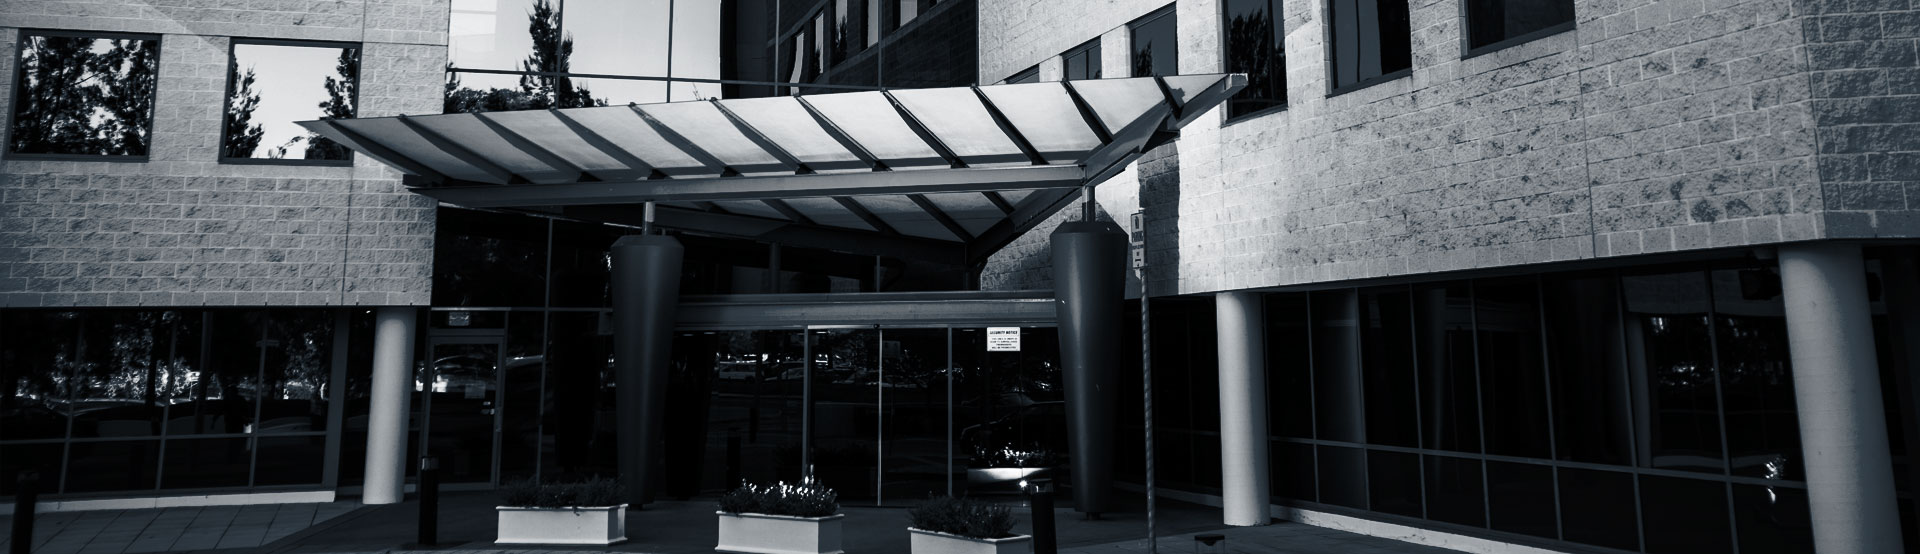
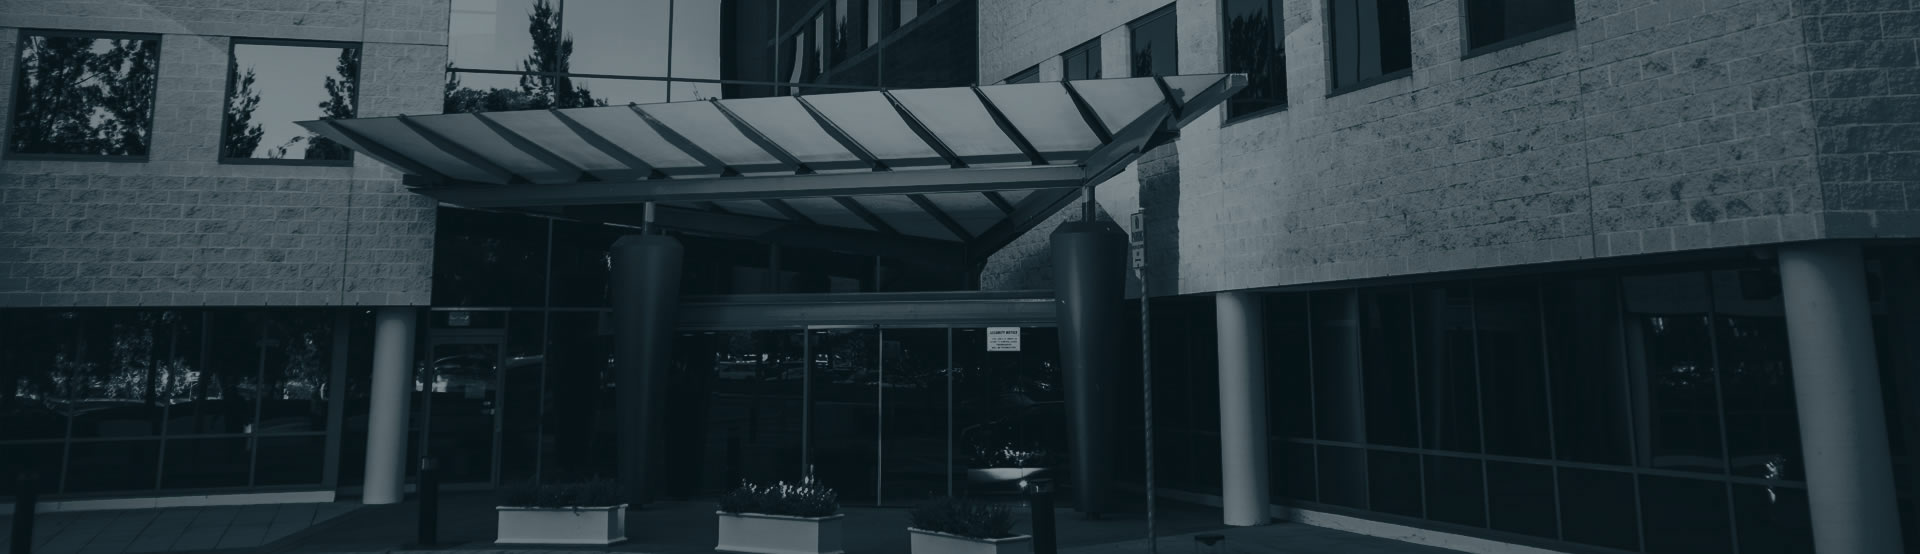
replace heading images - not enough contrast for white text

diff --git a/ipaustralia/css/landing-page.css b/ipaustralia/css/landing-page.css
@@ -200,8 +200,8 @@
 
   /* start trade marks landing block */
 .node-type-landing-page #block-bean-trade-marks-landing-block-0 {
-    background: #1d252c url("../images/tm-banner.jpg") center top no-repeat;
-  background-size: 120% auto;
+    background: #0d252c url("../images/tm-banner.jpg") center top no-repeat;
+    background-size: 120% auto;
     padding: 60px 10px 20px;
 }
 .node-type-landing-page #block-bean-trade-marks-landing-block-0 .panels-flexible-region-first {
@@ -1266,6 +1266,17 @@ background-size: 100% auto;
     color:#fff;
 }
 /* end about us intro block */
+/* start about us in page nav */
+#block-bean-about-us-anchor-menu {
+  height:72px;
+  text-transform:uppercase;
+  padding-top:25px;
+  text-align:center;
+}
+#block-bean-about-us-anchor-menu a {
+  color:#0d252c;
+}
+/* end about us in page nav */
 /* start about us what we do block */
 /* .node-type-landing-page #block-bean-what-we-do-block .panels-flexible-region-inside-last, .node-type-landing-page #block-bean-what-we-do-block .panels-flexible-region-inside, .node-type-landing-page #block-bean-what-we-do-block .group-middle #block-bean-what-we-do-block .group-middle{
   background: #FFF;
